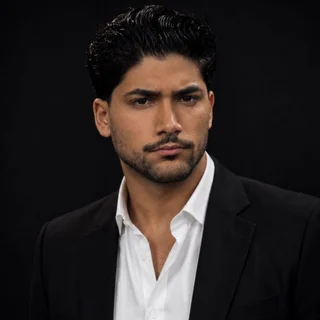
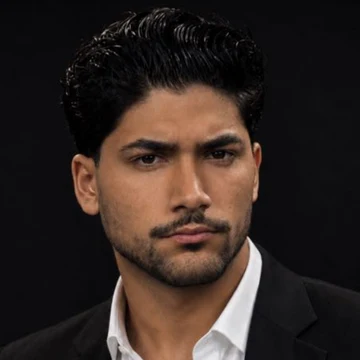
Adjust developer profile image crop

diff --git a/app/globals.css b/app/globals.css
@@ -542,14 +542,14 @@ h3,
   width: 3.65rem;
   height: 3.65rem;
   place-items: center;
-  border: 1px solid rgba(217, 195, 154, 0.3);
+  border: 1px solid rgba(217, 195, 154, 0.18);
   border-radius: 999px;
   background:
     var(--developer-image),
     radial-gradient(circle at 35% 20%, rgba(217, 195, 154, 0.32), transparent 34%),
     linear-gradient(145deg, rgba(75, 21, 32, 0.76), rgba(14, 11, 10, 0.82));
-  background-position: center;
-  background-size: cover;
+  background-position: center 34%;
+  background-size: 118%;
   color: var(--champagne);
   font-family: Georgia, "Times New Roman", ui-serif, serif;
   font-size: 1.05rem;